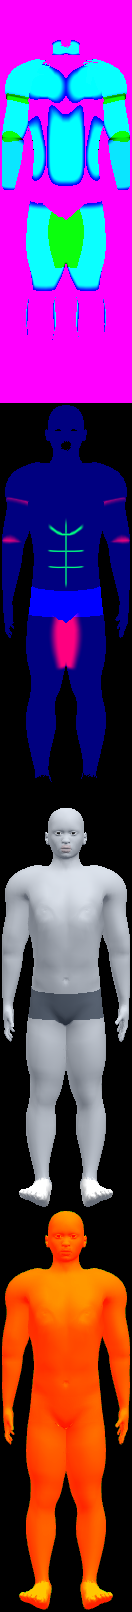
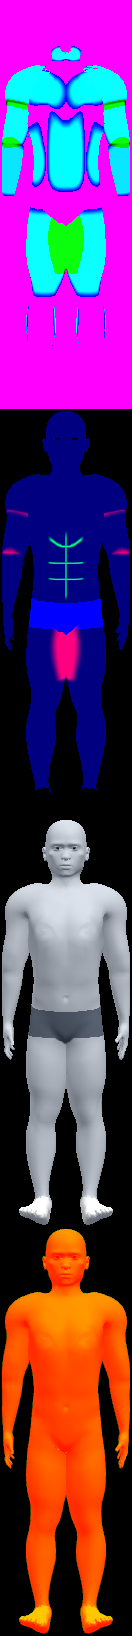
Mapa de músculos: cara de hombre adulto y cabeza algo mayor
Claude-Session: https://claude.ai/code/session_018smsm9G7dLMHXY7sah87VT

diff --git a/src/ui/components/bodyMaps.ts b/src/ui/components/bodyMaps.ts
@@ -6,7 +6,7 @@
 
 const W = 440, H = 660;
 /** Recorte de cada vista dentro de la imagen final (x, y, ancho, alto); lo da tools/bodymap/pack.py. */
-const BOX = { delante: [154, 127, 132, 403], detras: [153, 126, 134, 411] } as const;
+const BOX = { delante: [154, 121, 132, 409], detras: [153, 120, 134, 417] } as const;
 type View = keyof typeof BOX;
 
 const data = new Map<View, Promise<ImageData | null>>();

diff --git a/README.md b/README.md
@@ -47,7 +47,8 @@ Los ejercicios se dibujan con el maniquí de piezas (`src/figure/Mannequin.ts`).
 
 El maniquí realista (`tools/skin_new.json`) ya no se descarga en la app: solo se usa para sacar los mapas de músculos
 de los resúmenes (`public/mapa-musculos-delante.png` y `-detras.png`), que la app colorea según lo entrenado
-(`src/ui/components/bodyMaps.ts`). Para volver a generarlos: `npm run dev`, `node tools/bodymap.cjs 5174 carpeta` y
+(`src/ui/components/bodyMaps.ts`). Para volver a generarlos: `python3 tools/bodymap/adult_face.py tools/skin_new.json tools/skin_map.json`
+(cara de hombre adulto y cabeza algo mayor), `npm run dev`, `node tools/bodymap.cjs 5174 carpeta` y
 `python3 tools/bodymap/pack.py carpeta public` (el recorte que imprime va en `BOX` de `bodyMaps.ts`).
 Ese cuerpo parte del modelo base de [MakeHuman](http://www.makehumancommunity.org)
 (malla, esqueleto, pesos y ajustes de forma), publicado con licencia **CC0**, y se genera con
